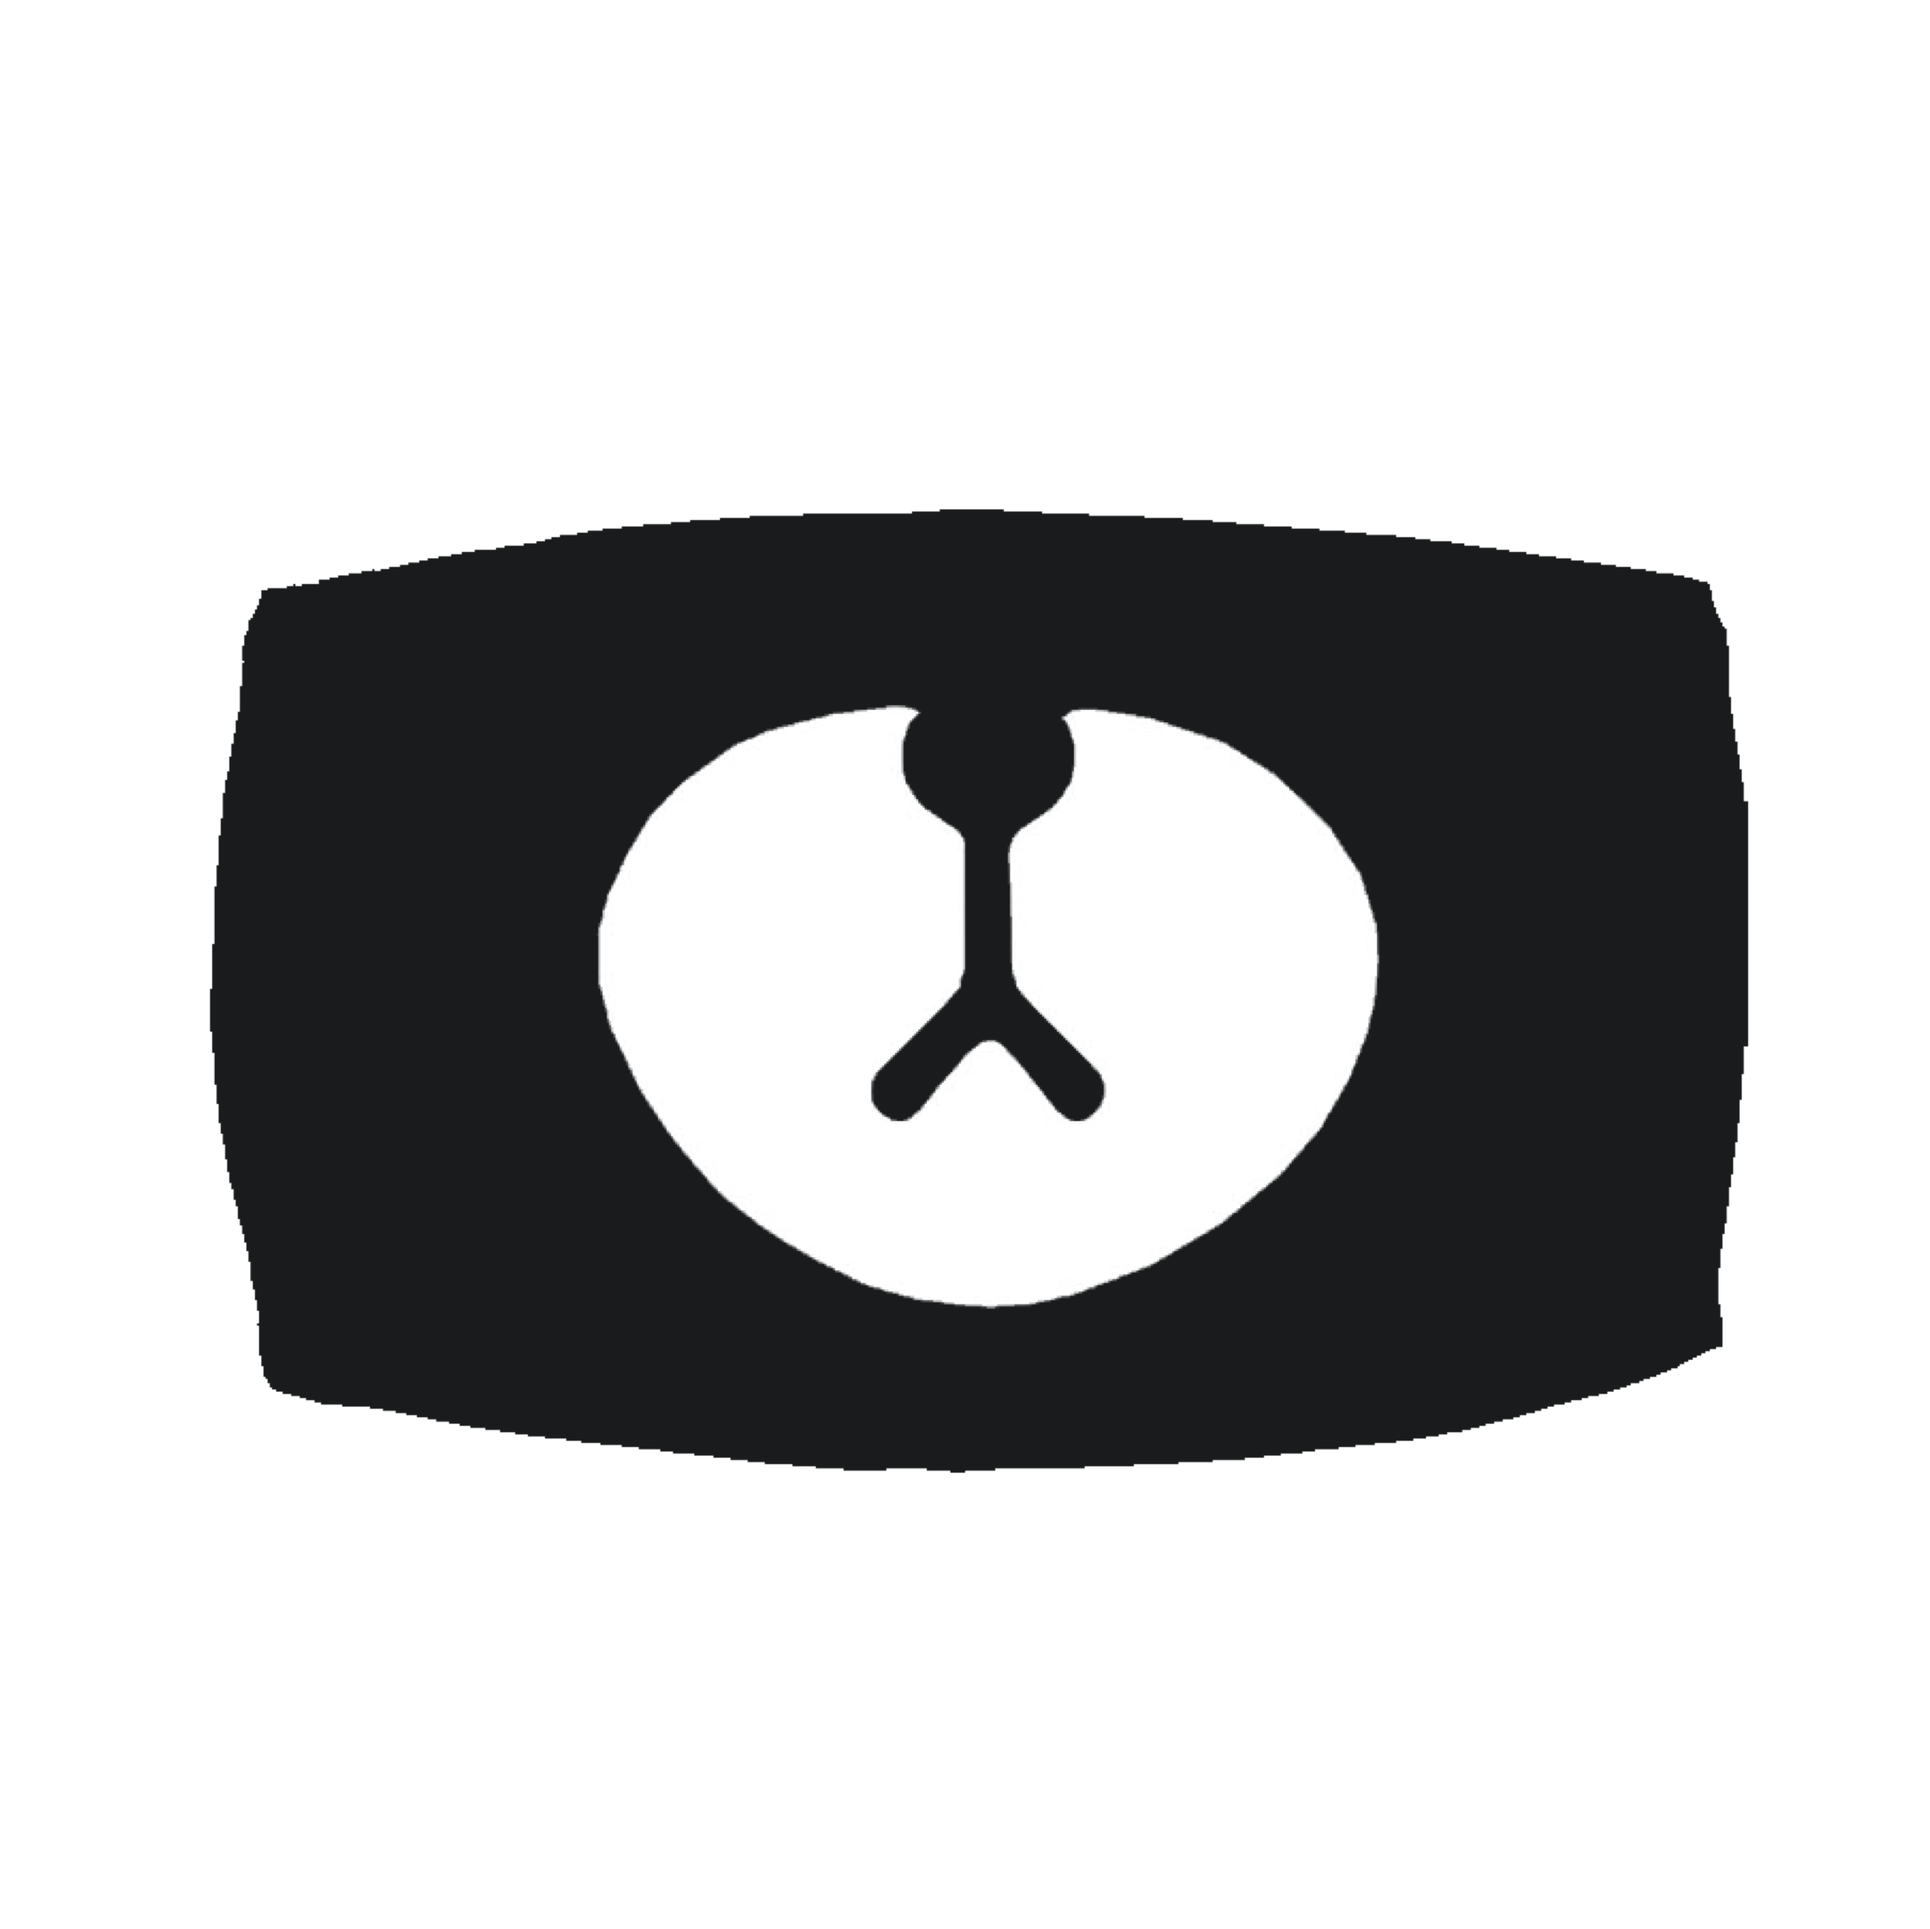
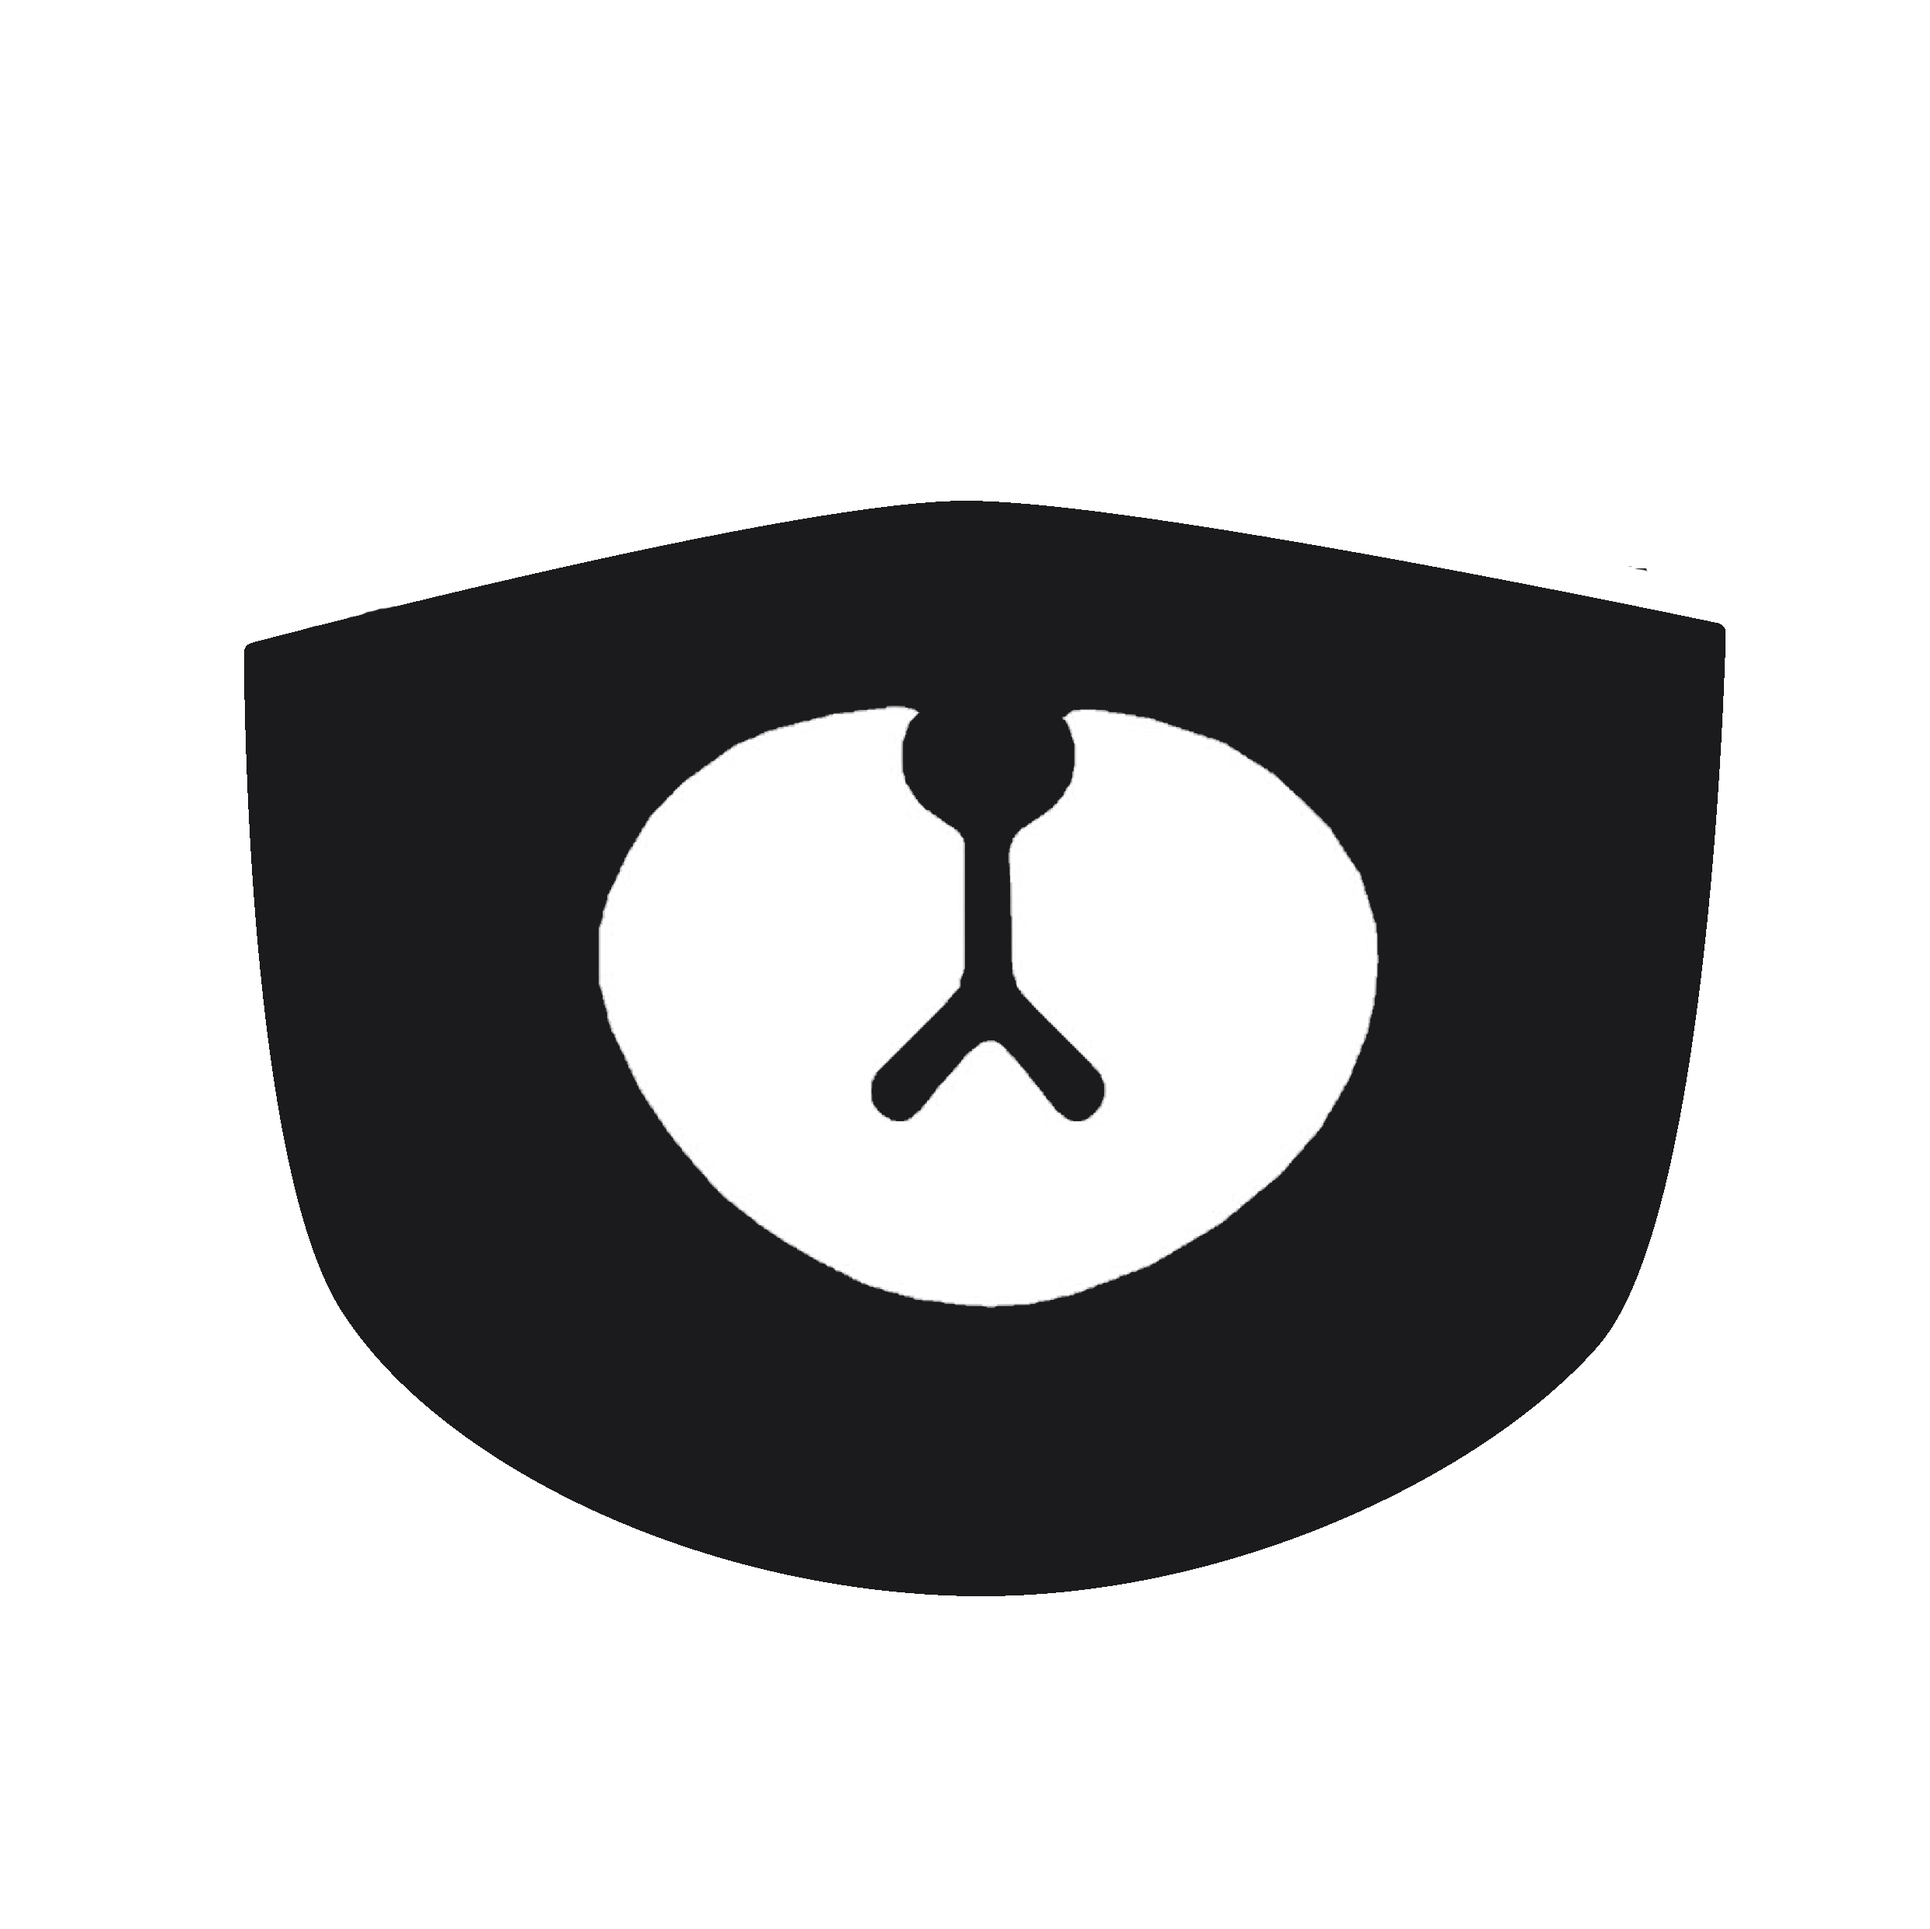
added more masks

diff --git a/views/maskOnProfile.html b/views/maskOnProfile.html
@@ -51,6 +51,10 @@
     onclick="changemask('images/DIYmc-bandana.png');;" style="width:10%;">
     <img src="images/bearmask.png" id="mask"
     onclick="changemask('images/bearmask.png');;" style="width:10%;">
+    <img src="images/blackmask.png" id="mask"
+    onclick="changemask('images/blackmask.png');;" style="width:10%;">
+    <img src="images/pinkmask.png" id="mask"
+    onclick="changemask('images/pinkmask.png');;" style="width:10%;">
     <!-- Mask selection goes here -->
     <div class="row">
       <button
